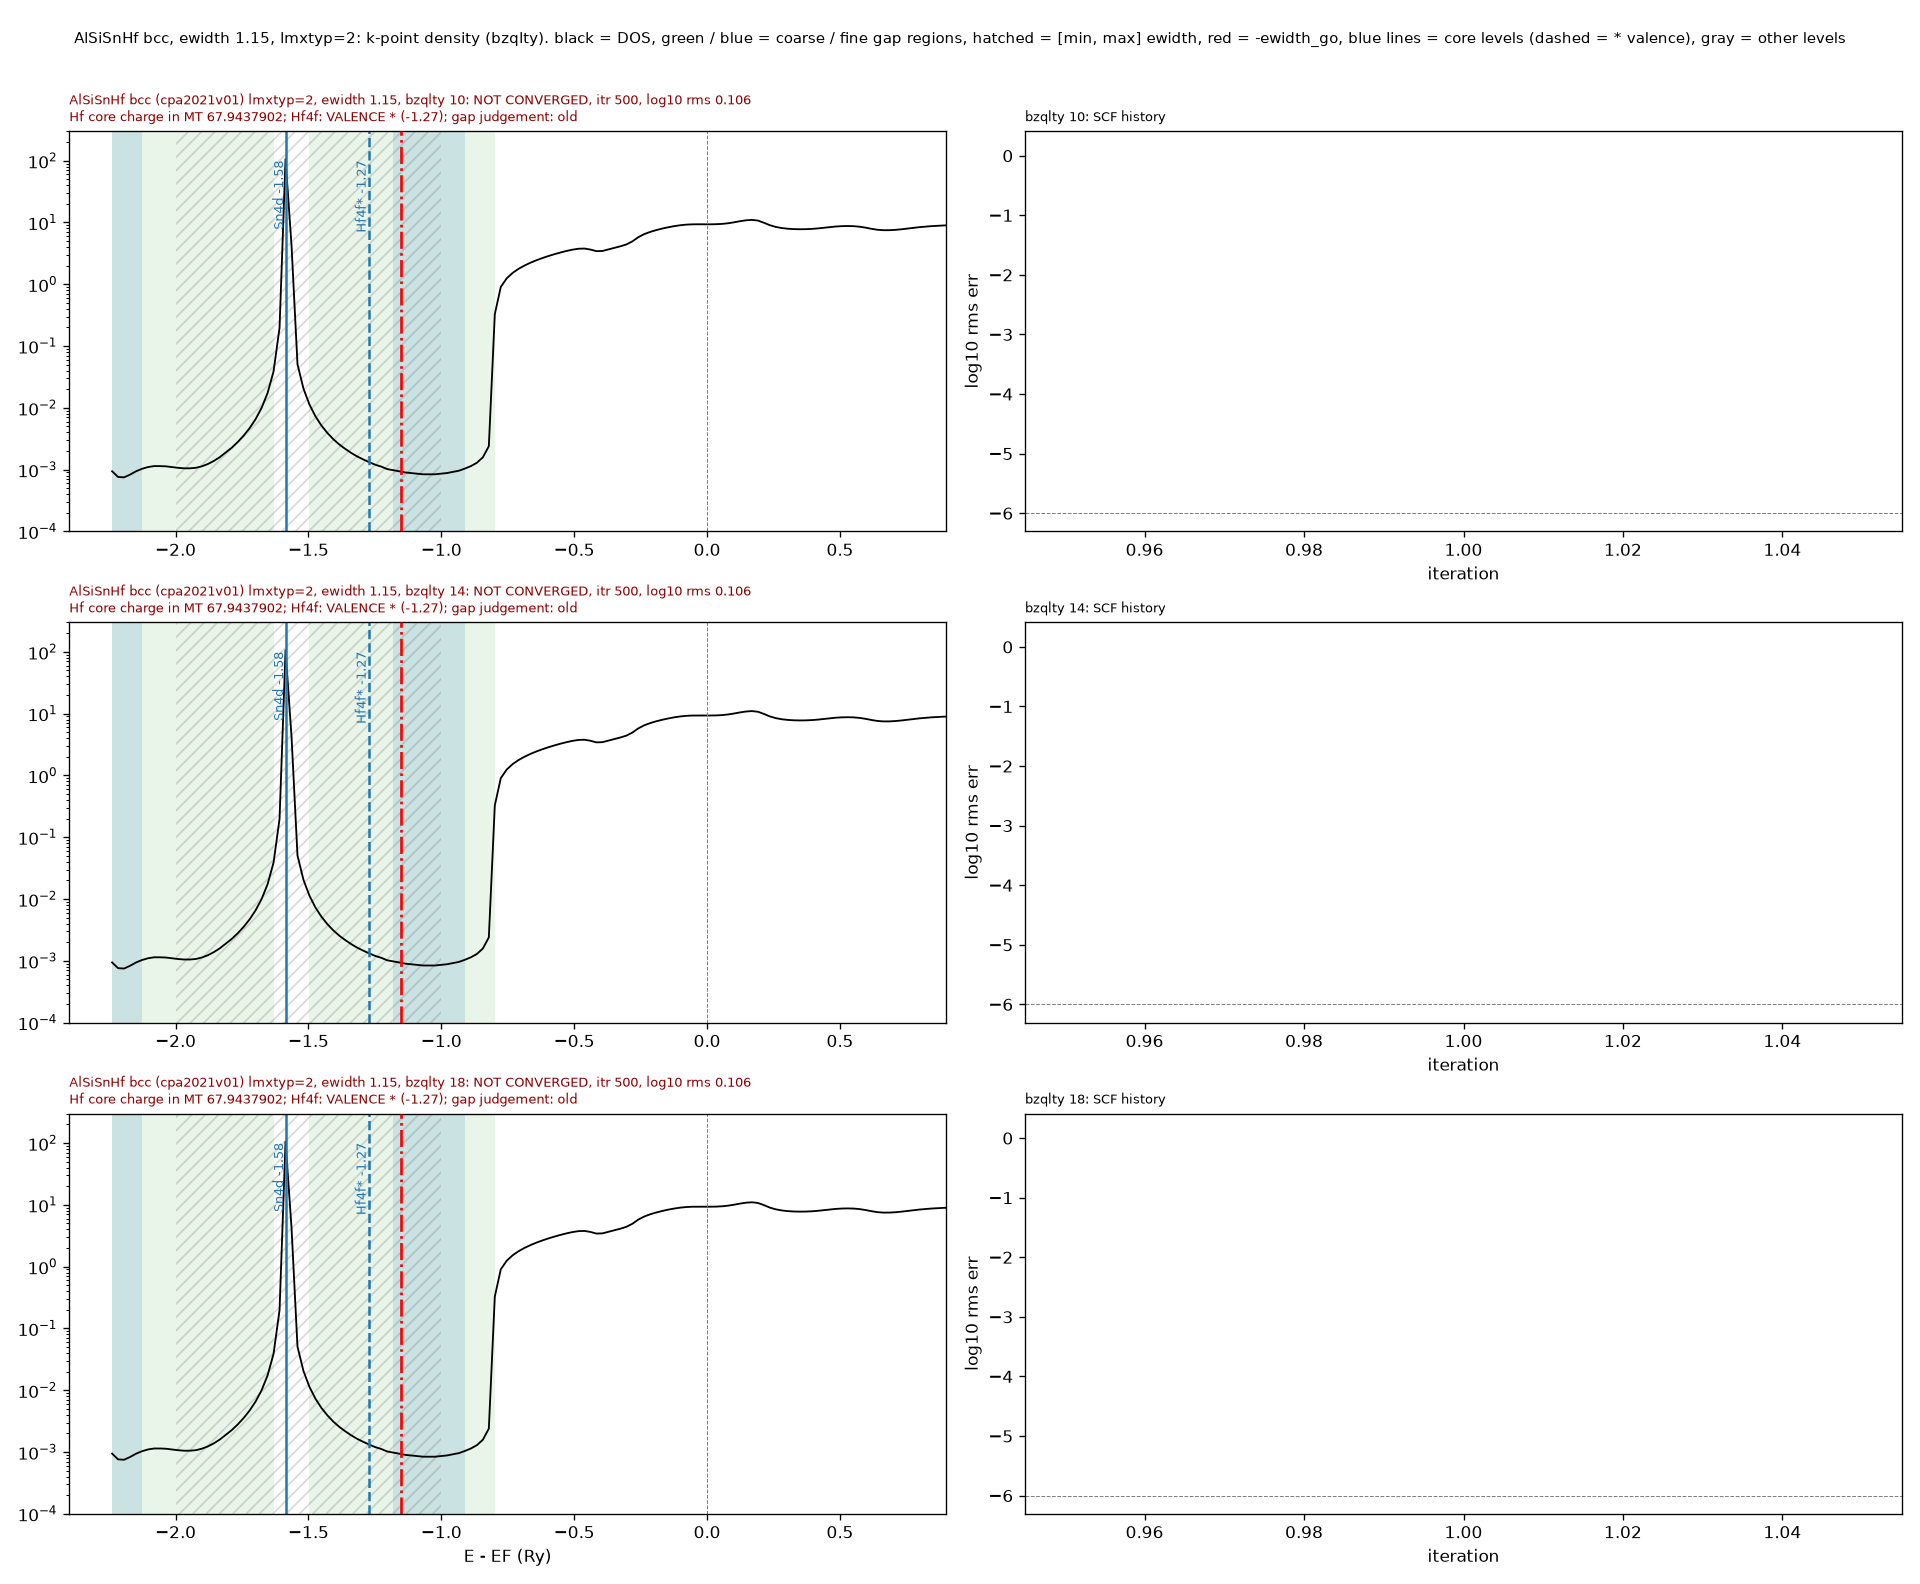
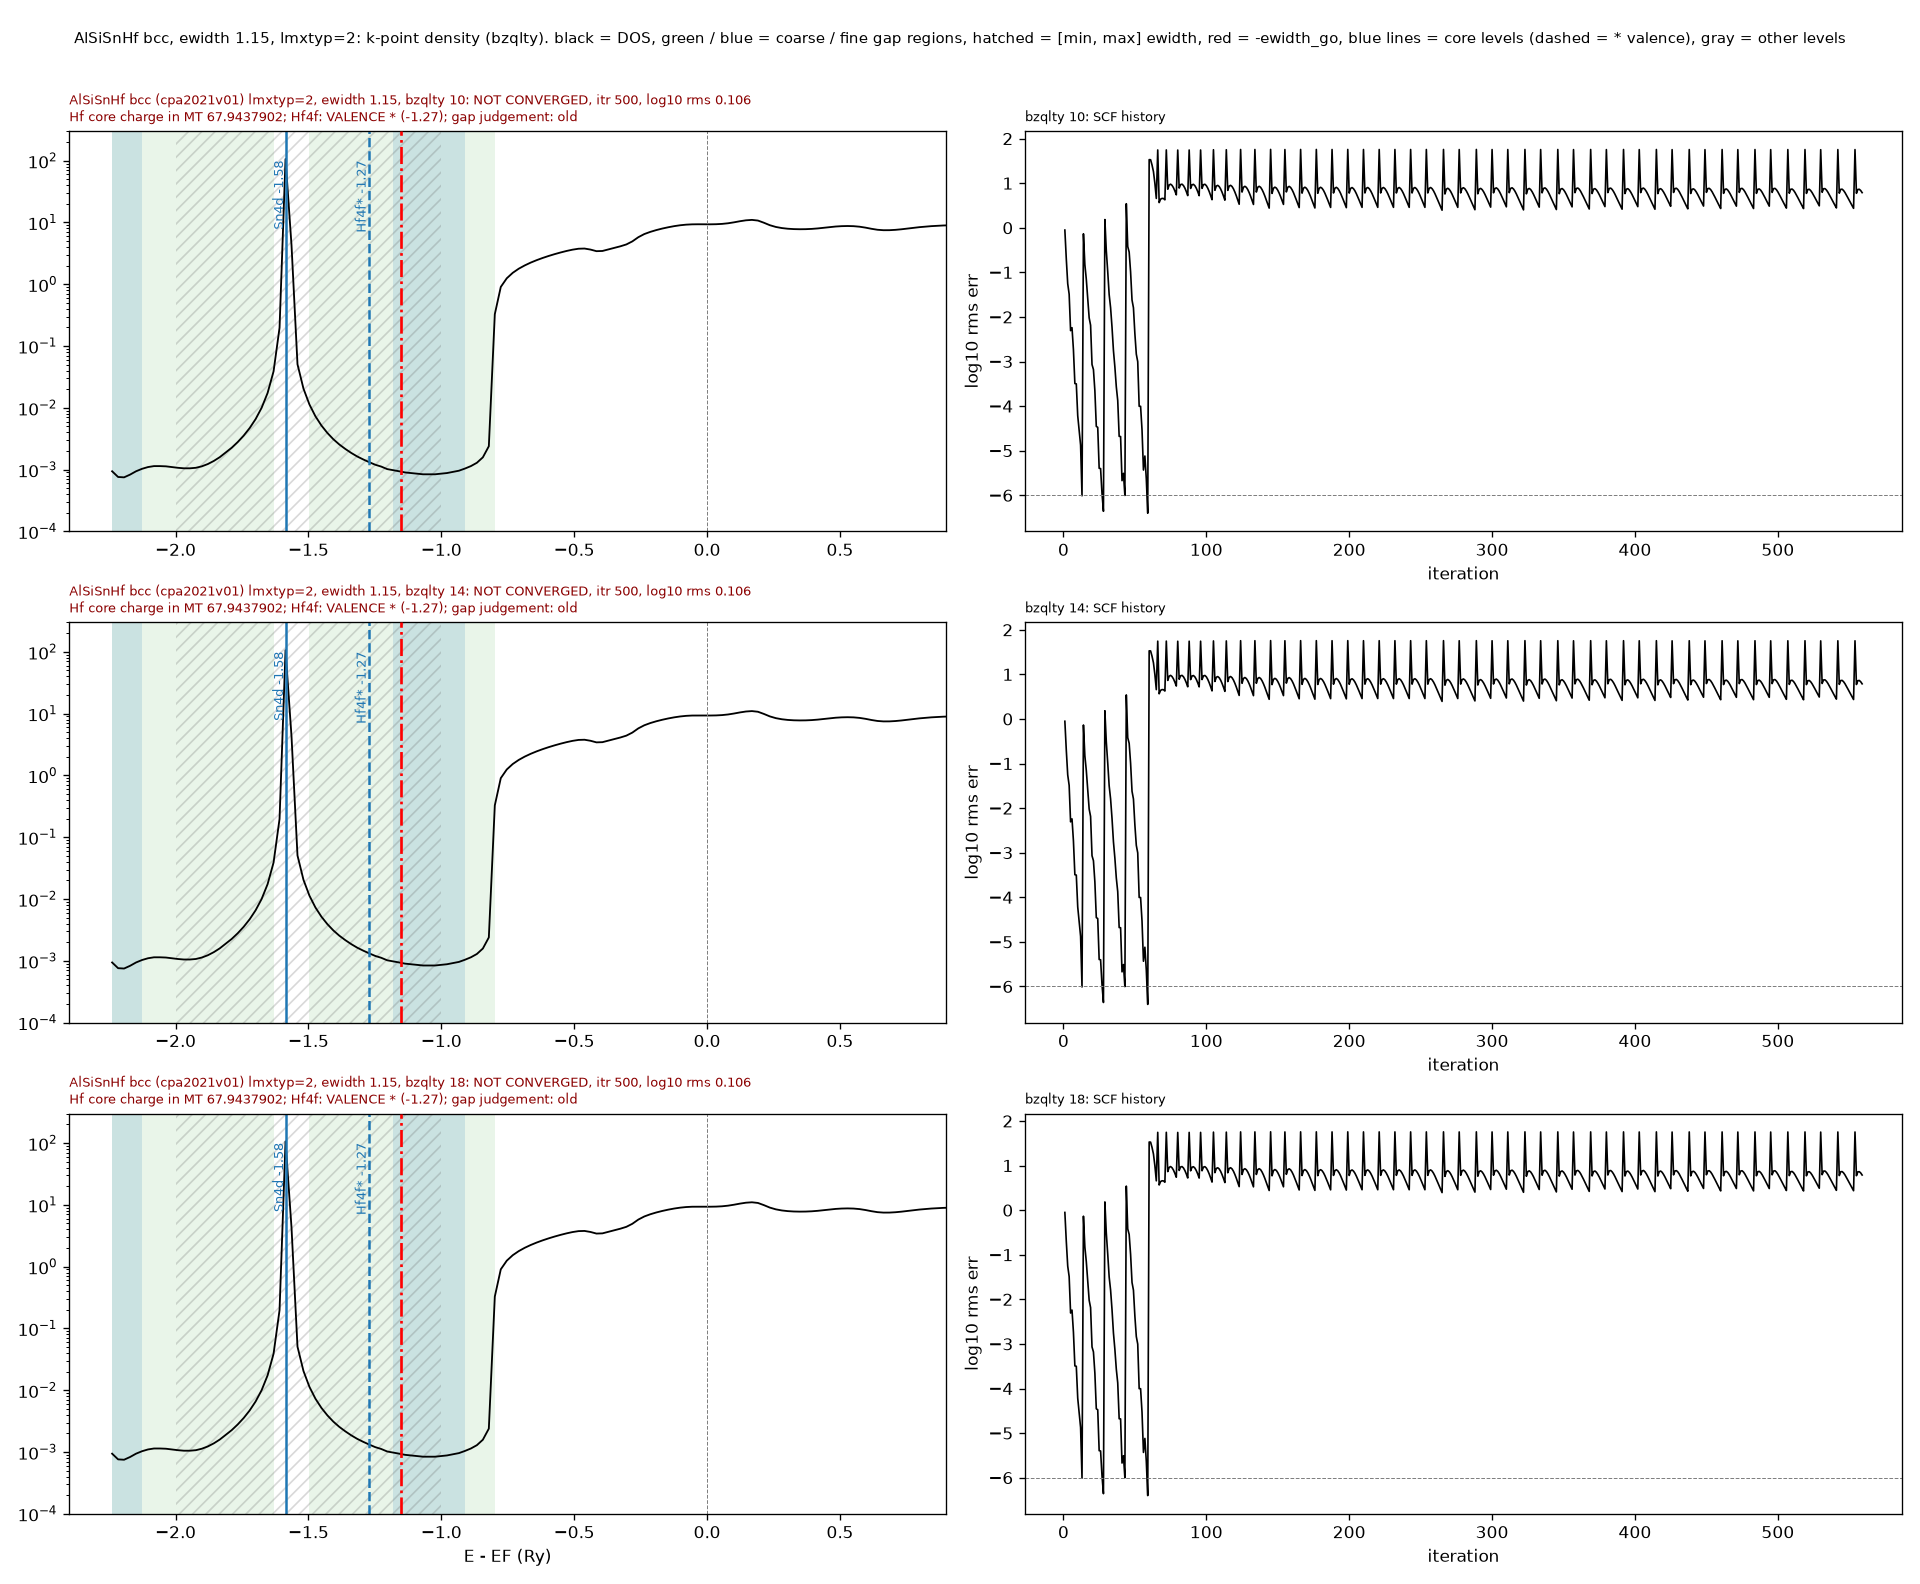
hf_bzqlty figure: SCF history parsed from the itr lines

diff --git a/tests/gaes/tools/plot_hf_bzqlty.py b/tests/gaes/tools/plot_hf_bzqlty.py
@@ -9,9 +9,12 @@ from pyakaikkr.gaes.plot import draw_gaes_dos, legend_text
 RUNS = [("bzqlty 10", "lmx2_ew_1.15"), ("bzqlty 14", "lmx2_ew_1.15_bz14"), ("bzqlty 18", "lmx2_ew_1.15_bz18")]
 def info(d):
     txt = open(d + "/out_go.log").read()
-    itr = re.findall(r"itr=\s*(\d+)", txt); err = re.findall(r"rms err=\s*(-?\d+\.\d+)", txt)
+    itr = re.findall(r"itr=\s*(\d+)", txt)
+    # per-iteration lines: "itr=  1  rms error = -0.051" (first ones) and "itr=190 neu= ... err= 0.766"
+    hist = [float(x) for x in re.findall(r"itr=\s*\d+.*?err(?:or)?\s*=\s*(-?\d+\.\d+)", txt)]
+    err = re.findall(r"rms err=\s*(-?\d+\.\d+)", txt)
     core = re.search(r"\*\*\* type-\S+\s+Hf.*?core charge in the muffin-tin sphere =\s*(-?\d+\.\d+)", txt, re.S)
-    return (int(itr[-1]) if itr else None), (float(err[-1]) if err else None), (float(core.group(1)) if core else None), [float(x) for x in err]
+    return (int(itr[-1]) if itr else None), (float(err[-1]) if err else None), (float(core.group(1)) if core else None), hist
 fig, axes = plt.subplots(len(RUNS), 2, figsize=(16, 4.4 * len(RUNS)))
 for row, (label, d) in enumerate(RUNS):
     ax, axh = axes[row]
